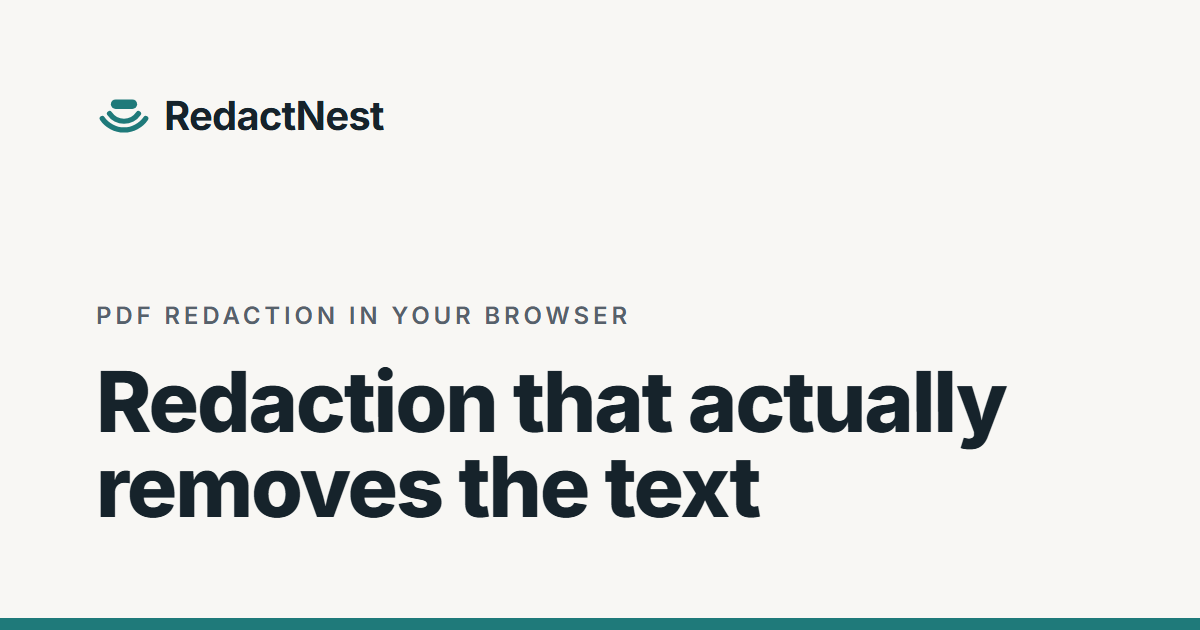
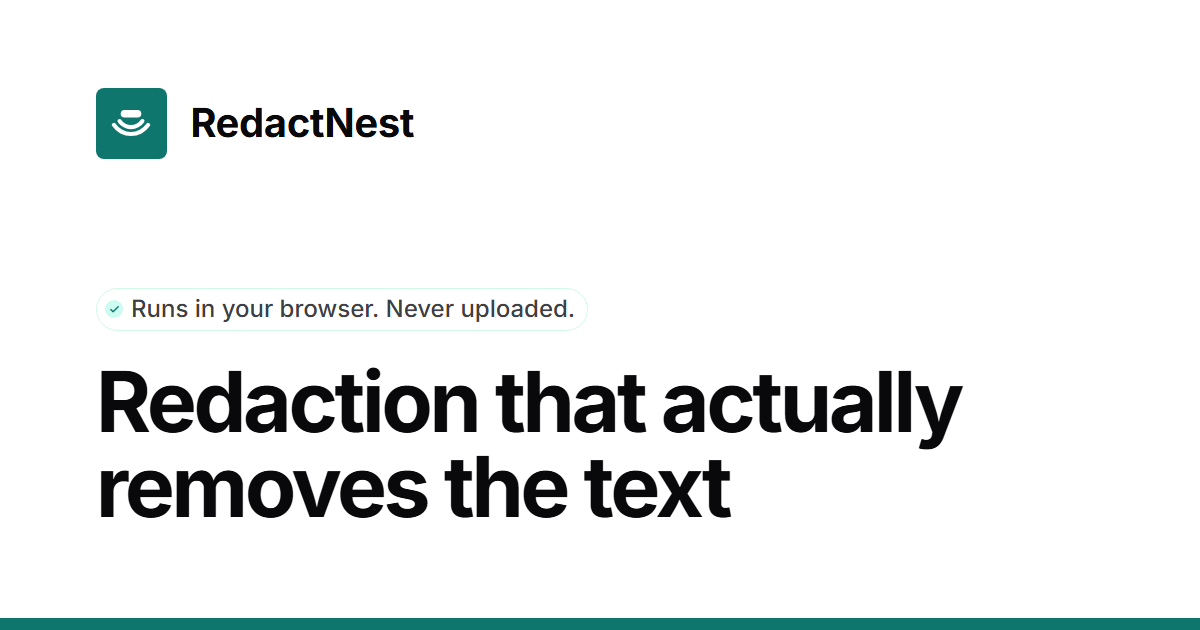
chore(brand): rerun make-brand for the new look and drop the unused product shot (spec 0026, task 15)

diff --git a/tests/unit/brand-files.test.ts b/tests/unit/brand-files.test.ts
@@ -117,13 +117,6 @@ describe("the raster files (AC-3, AC-5, AC-6, AC-28)", () => {
     expect(card.length).toBeLessThan(1024 * 1024);
   });
 
-  it("captures the product shot at 1280 by 800 at device scale 2 (AC-12)", () => {
-    expect(pngSize(read("src", "app", "product-review.png"))).toEqual({
-      width: 2560,
-      height: 1600,
-    });
-  });
-
   it("makes the Polar product image 1200 by 630, the social card's composition", () => {
     expect(pngSize(read("docs", "design", "brand", "polar-product.png"))).toEqual({
       width: 1200,
